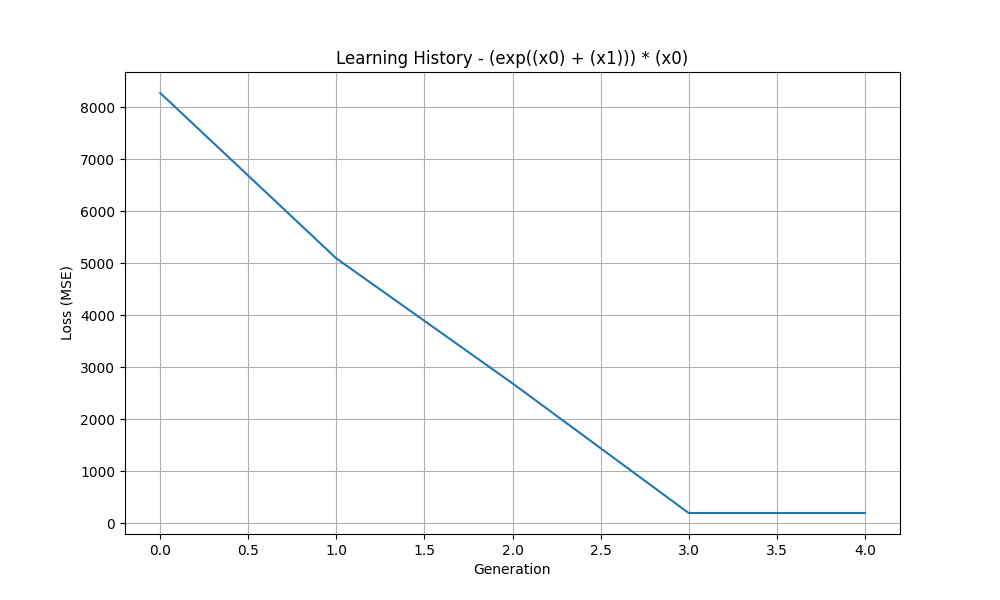
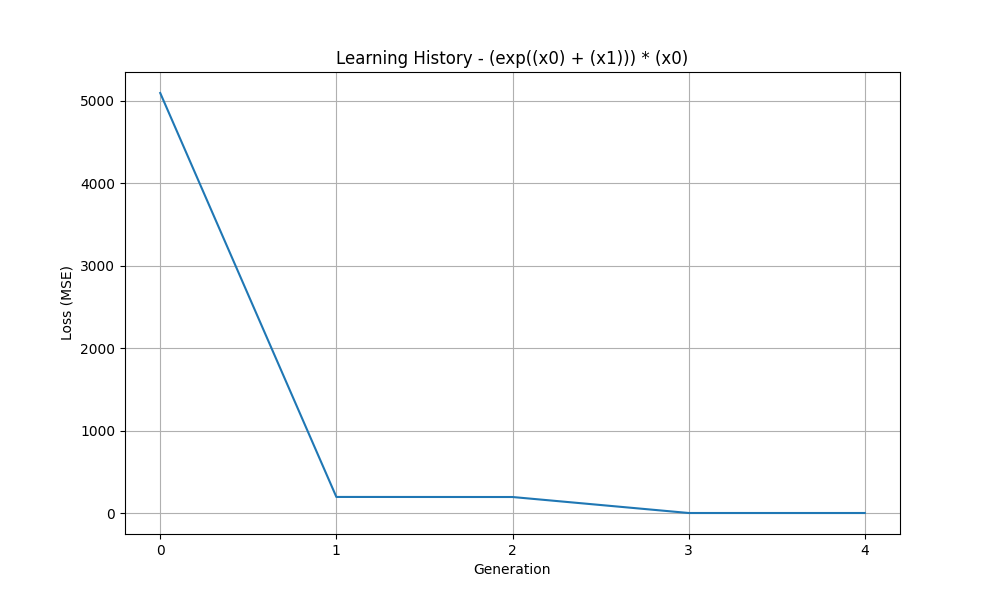
When prev_best.loss is less than new_best.loss (not if otherwise), the previous best solution is preserved by replacing the new worst solution (instead of replacing a random solution) in the population with the previous best solution

diff --git a/genetic/genetic_programming.cc b/genetic/genetic_programming.cc
@@ -5,8 +5,6 @@
 #include "initializer/base.hpp"
 #include "learning_history.hpp"
 
-#include <iostream>
-
 GeneticProgramming::GeneticProgramming(
                std::shared_ptr<const Dataset> dataset, 
                int nweights, 
@@ -33,18 +31,18 @@ GeneticProgramming::GeneticProgramming(
     selector = selection->get_selector(npopulation);
 }
 
-Expression GeneticProgramming::get_best_solution() {
-    return *std::min_element(population.begin(), population.end(), 
+Expression *GeneticProgramming::get_best_solution() {
+    return std::min_element(population.begin(), population.end(), 
     [](const Expression& a, const Expression& b) {
         return a.loss < b.loss;
-    });
+    }).base();
 }
 
-void GeneticProgramming::insert_solution(Expression e) {
-    *std::max_element(population.begin(), population.end(), 
+Expression *GeneticProgramming::get_worst_solution() {
+    return std::max_element(population.begin(), population.end(), 
     [](const Expression& a, const Expression& b) {
         return a.loss < b.loss;
-    }) = e;
+    }).base();
 }
 
 LearningHistory GeneticProgramming::fit(int ngenerations, int nepochs, float learning_rate) noexcept {
@@ -57,8 +55,10 @@ LearningHistory GeneticProgramming::fit(int ngenerations, int nepochs, float lea
     // Iterate for ngenerations
     for (int generation = 0; generation < ngenerations; ++generation)
     {
-        Expression best = get_best_solution();
+        // Get the best solution
+        const Expression prev_best = *get_best_solution();
 
+        // Update selection probabilities
         selector->update(&population[0]);
 
         /* Offspring Generation */
@@ -79,11 +79,16 @@ LearningHistory GeneticProgramming::fit(int ngenerations, int nepochs, float lea
         // Compute fitnesses
         runner->run(population, nepochs, learning_rate);
 
-        // Preserve previous best
-        population[0] = best;
+        // Find new best
+        const Expression new_best = *get_best_solution();
+
+        // Preserve previous best if it is better than the new best
+        if (prev_best.loss < new_best.loss) {
+            *get_worst_solution() = prev_best;
+        }
 
         // Append to learning history
-        history.add_to_history(best);
+        history.add_to_history(prev_best.loss < new_best.loss ? prev_best : new_best);
     }
 
     return history;

diff --git a/genetic/genetic_programming_islands.cc b/genetic/genetic_programming_islands.cc
@@ -89,7 +89,7 @@ std::tuple<std::string,std::vector<float>> GeneticProgrammingIslands::fit(int ng
 
                 // Find the global best solution
                 for (int i = 0; i < nislands; ++i) {
-                    Expression local_best = islands[i]->get_best_solution();
+                    const Expression local_best = *islands[i]->get_best_solution();
                     if (local_best.loss < global_best.loss || (supergeneration == 0 && i == 0)) {
                         global_best = local_best;
                     }
@@ -105,10 +105,10 @@ std::tuple<std::string,std::vector<float>> GeneticProgrammingIslands::fit(int ng
 
                 // Forward best solution of island i to island i+1
                 for (int i = nislands - 1; i >= 0; --i) {
-                    Expression new_best = islands[i]->get_best_solution();
+                    const Expression new_best = *islands[i]->get_best_solution();
 
-                    int next = (i + 1) % nislands;
-                    islands[next]->insert_solution(new_best);
+                    // Replace worst solution of island i+1 with best solution of island i
+                    *(islands[(i + 1) % nislands]->get_worst_solution()) = new_best;
                 }
             }
 

diff --git a/benchmark.py b/benchmark.py
@@ -41,11 +41,15 @@ solution, history = model.fit(ngenerations=1, nsupergenerations=5, verbose=True)
 # Print best solution
 print("Best solution: {}".format(solution))
 
+# Print learning history
+print("Learning history: {}".format(history))
+
 # Plot learning history
 plt.figure(figsize=(10, 6))
 plt.plot(history)
 plt.xlabel('Generation')
 plt.ylabel('Loss (MSE)')
 plt.title('Learning History - {}'.format(solution))
+plt.xticks(np.arange(0, len(history), 1.0))
 plt.grid()
 plt.savefig('benchmark_learning_history.png')

diff --git a/genetic/genetic_programming.hpp b/genetic/genetic_programming.hpp
@@ -28,7 +28,8 @@ public:
 
     void insert_solution(Expression e);
 
-    Expression get_best_solution();
+    Expression *get_best_solution();
+    Expression *get_worst_solution();
 
 private:
     std::shared_ptr<const Dataset> dataset;
